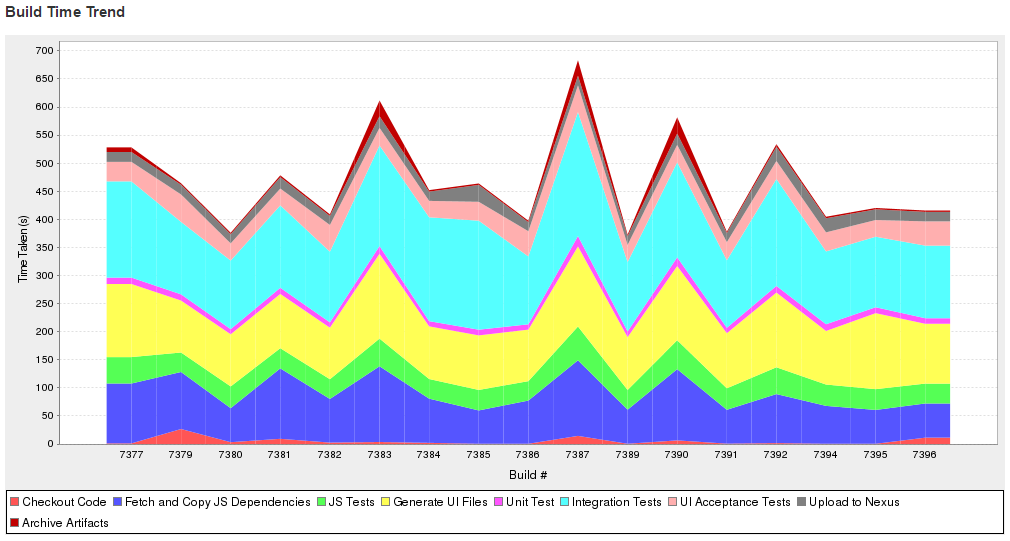
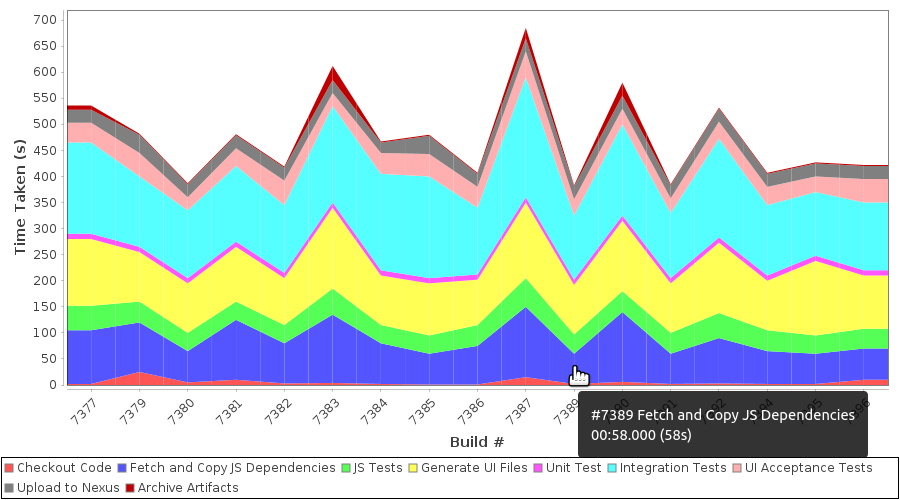
Add tooltips and run links to graph (#57) (#59)
* Add tooltips and run links to graph (#57)

* Switch to a custom renderer with tooltip/URL generators and a
workaround for an image map generation bug in JFreeChart.

* Remove max-width CSS rule from trend graph

<map> coordinates don't scale to match images they're used by, so this
change makes the graph fixed-size.

* Set upper/lower domain axis margins to 0 and set graph width to 900px

This removes ~100px of empty space surrounding the plot area, which
reduces the impact of switching to a fixed-size graph.

* Add tests of new renderer methods

* Update build time trend documentation image

* Clarify the elapsed seconds tooltip assertion

---------

diff --git a/src/main/webapp/build-time-blame.css b/src/main/webapp/build-time-blame.css
@@ -11,10 +11,6 @@
     width: auto;
 }
 
-.build-time-blame .trend-graph img {
-    max-width: 100%;
-}
-
 .build-time-blame .error-text {
     color: red;
 }
